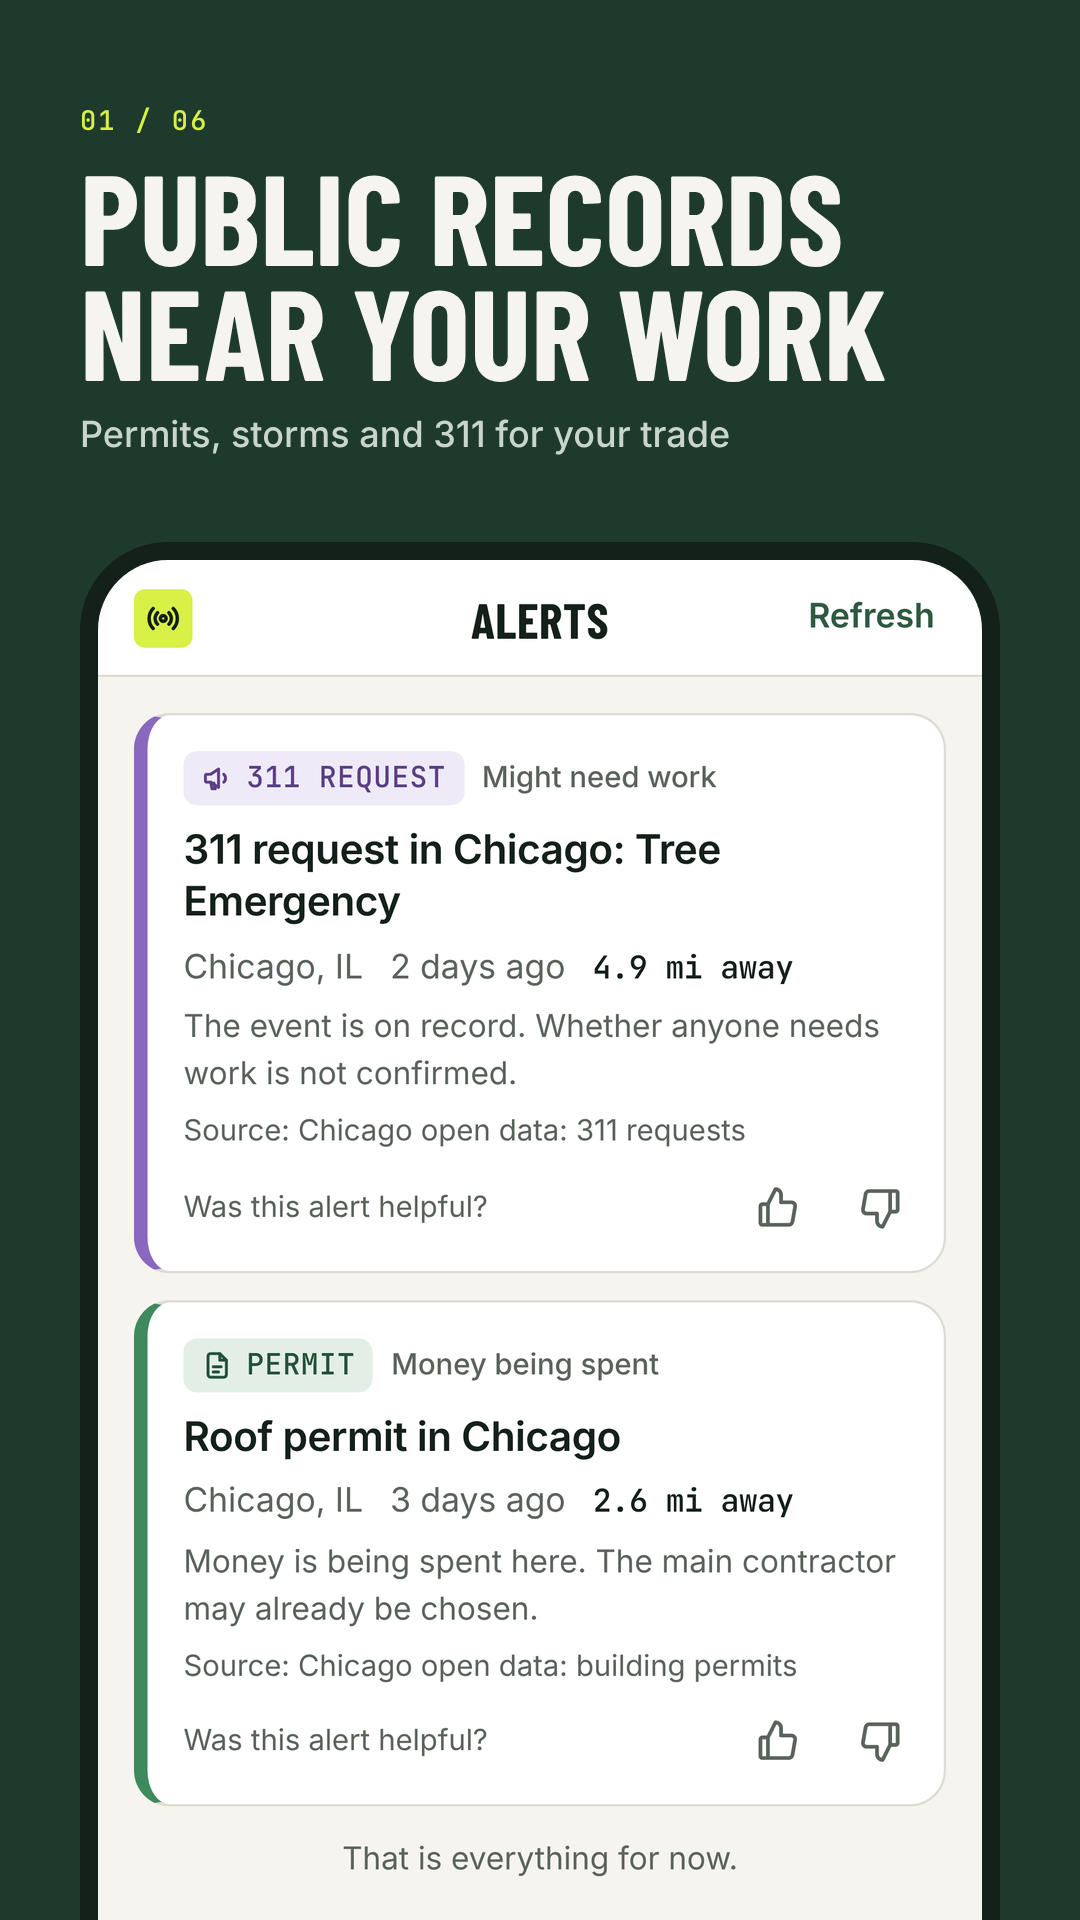
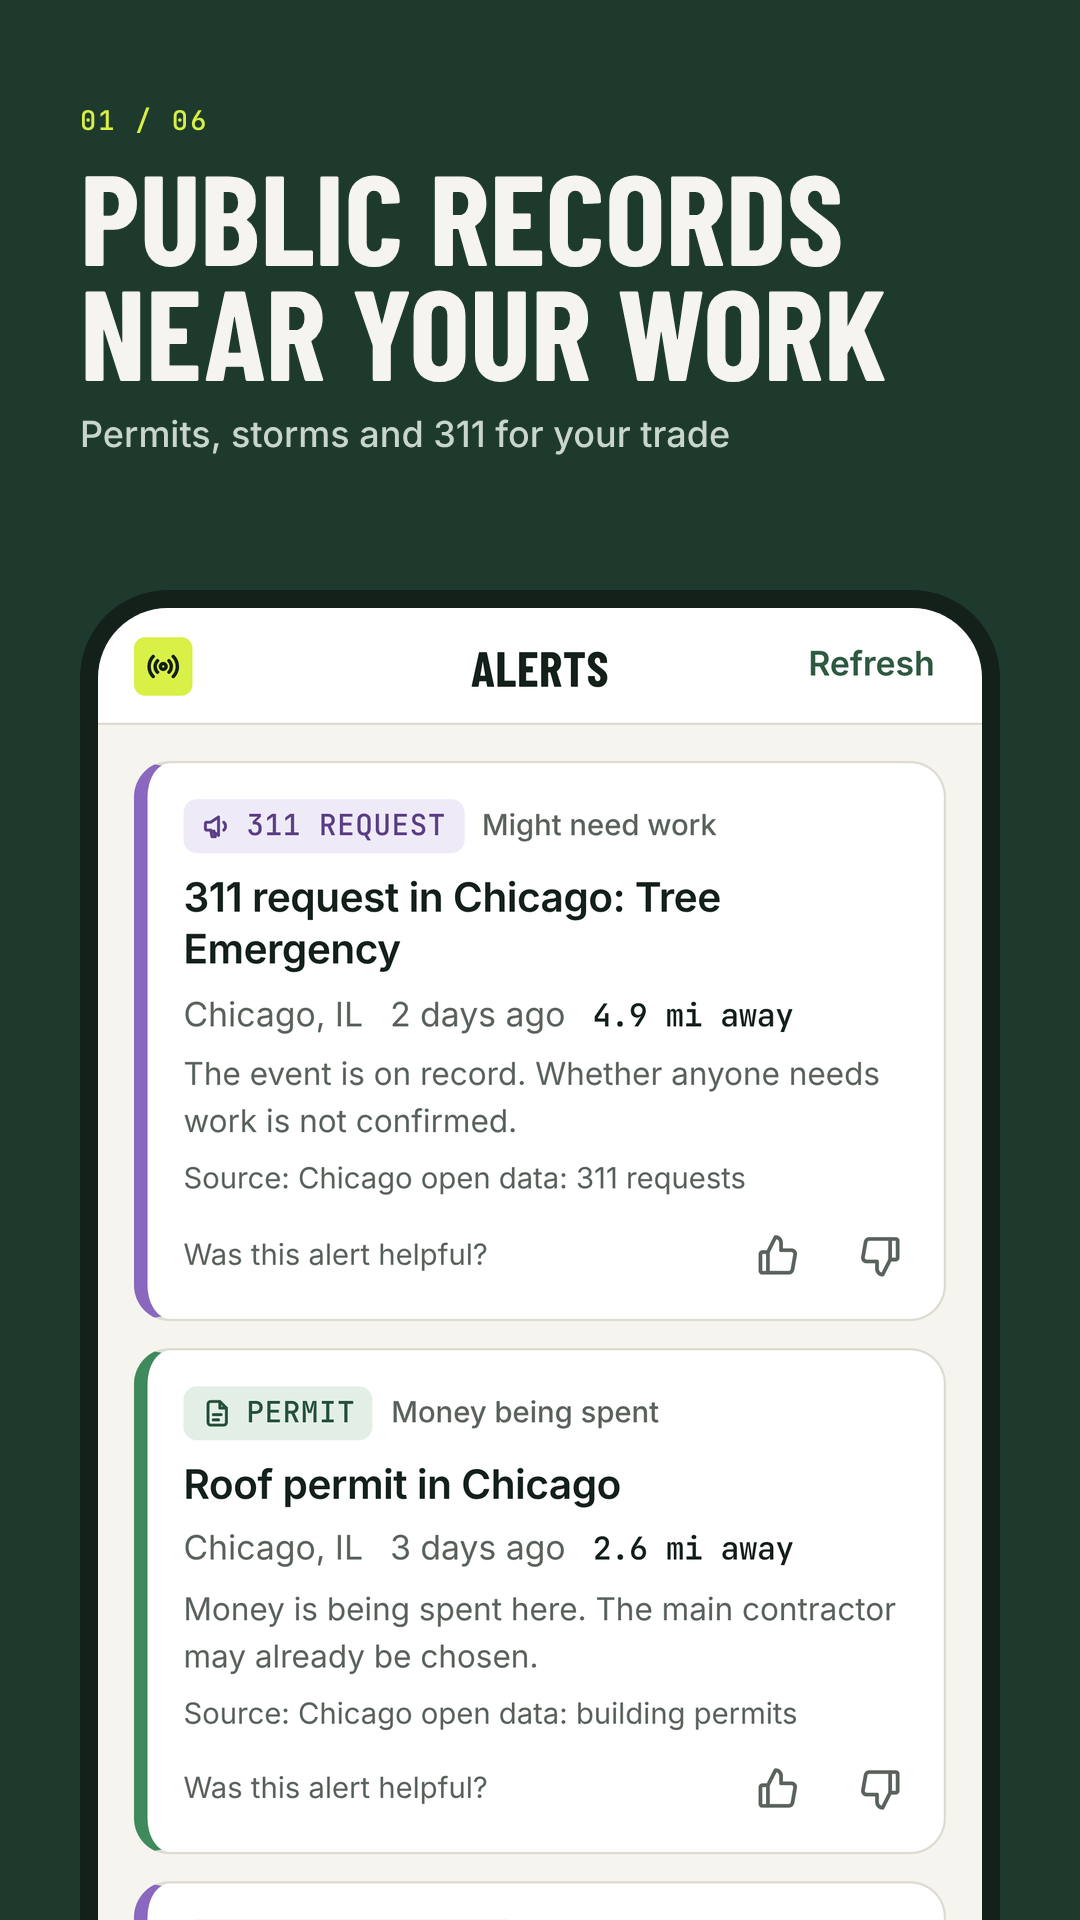
Store shots r10 fix wave 2: consistent account email, full feed on shot 1, Android trade picker ends on a whole row, ending rules
The capture member has the sample address member@example.com, so Settings never shows Not shared with the digest on. Shot 1 shows
three real records and never the end-of-feed line. The scroll solver refuses a heading as the last line in view and prefers room
under the top bar; Android hero top 590. The checker fails on Not shared with the digest on, a heading as the last line, and the
end-of-feed line on any hero.

Claude-Session: https://claude.ai/code/session_01WNZhjWuYUDysbNSQvyEAA2

diff --git a/mobile/store/make-screenshots.py b/mobile/store/make-screenshots.py
@@ -101,12 +101,14 @@ G = {
     "ios": dict(W=1320, H=2868, M=110, eyebrow_top=176, eyebrow_px=34, head_gap=30, head_px=156, head_lh=0.9, sub_gap=34, sub_px=46,
                 hero_top=794, bezel=26, frame_r=120, phone_vw=393),
     "android": dict(W=1080, H=1920, M=80, eyebrow_top=104, eyebrow_px=27, head_gap=22, head_px=128, head_lh=0.9, sub_gap=24, sub_px=36,
-                    hero_top=542, bezel=18, frame_r=88, phone_vw=393),
+                    hero_top=590, bezel=18, frame_r=88, phone_vw=393),
 }
 # tuning knobs for probing the grid (the defaults above are the shipped values)
 for _p in G:
     if os.environ.get(f"SHOTS_{_p.upper()}_TOP"):
         G[_p]["hero_top"] = int(os.environ[f"SHOTS_{_p.upper()}_TOP"])
+    if os.environ.get(f"SHOTS_{_p.upper()}_VW"):
+        G[_p]["phone_vw"] = int(os.environ[f"SHOTS_{_p.upper()}_VW"])
 PLATFORMS = tuple(os.environ.get("SHOTS_PLATFORMS", "ios,android").split(","))
 for g in G.values():
     g["box_w"] = g["W"] - 2 * g["M"]                     # hero box = the text column
@@ -141,12 +143,14 @@ SCREEN_LINES = """() => { const out = []; const sc = document.querySelector('.sc
   while (walk.nextNode()) { const n = walk.currentNode; if (!n.textContent.trim() || n.parentElement.closest('.ptr:not(.show)')) continue;
     const r = document.createRange(); r.selectNodeContents(n);
     const block = n.parentElement.closest('p, li, h1, h2, h3, dd, dt, label, button, a') || n.parentElement; k++;
-    for (const b of r.getClientRects()) out.push([b.top, b.bottom, n.textContent.trim().slice(0, 50), !!(sc && sc.contains(n)), block.dataset.k || (block.dataset.k = 'b' + k)]); }
+    // a heading whose items follow it: a trade group label in a form, a Settings section label
+    const head = !!n.parentElement.closest('form p.small.muted, .section-label');
+    for (const b of r.getClientRects()) out.push([b.top, b.bottom, n.textContent.trim().slice(0, 50), !!(sc && sc.contains(n)), block.dataset.k || (block.dataset.k = 'b' + k), head]); }
   for (const e of document.querySelectorAll('.app svg, .app .btn, .app .chip, .app input, .app select')) { const b = e.getBoundingClientRect();
-    if (b.height) out.push([b.top, b.bottom, '<' + e.tagName + '>', !!(sc && sc.contains(e)), 'e' + (k++)]); }
+    if (b.height) out.push([b.top, b.bottom, '<' + e.tagName + '>', !!(sc && sc.contains(e)), 'e' + (k++), false]); }
   // containers: never cut at the top of the scroller (they may run off the canvas edge, like the last feed card)
   for (const e of document.querySelectorAll('.app .card, .app .plan, .app .segmented, .app .notice, .app .settings-list, .app button:not(.btn):not(.chip)')) { const b = e.getBoundingClientRect();
-    if (b.height) out.push([b.top, b.bottom, '<BOX>', !!(sc && sc.contains(e)), 'x' + (k++)]); }
+    if (b.height) out.push([b.top, b.bottom, '<BOX>', !!(sc && sc.contains(e)), 'x' + (k++), false]); }
   return out; }"""
 
 # Smallest computed font size of any visible text node above `limit` (CSS px).
@@ -240,6 +244,15 @@ def records_for(feed, shown):
 
 # ---------------------------------------------------------------- heroes ------------------------------------------------------------
 
+def first_row(lines, off, st):
+    """The first whole line of text in the scroller, its text nodes joined in DOM order."""
+    rows = [(l0 - off, lab) for l0, l1, lab, ins, *_ in lines if ins and not lab.startswith('<') and l0 - off >= st - 0.5]
+    if not rows:
+        return ""
+    top = min(r[0] for r in rows)
+    return " ".join(lab for y, lab in rows if y - top < 1).replace(" .", ".")
+
+
 def phone_hero(browser, plat, name, me, feed, route=None, ready=".app", prep=None, from_end=False, anchor=None, first_text=None):
     """The top of one real viewport, exactly as tall as the frame shows. The viewport is taller than what shows (the tab bar stays
     below the canvas); if a line of text would be cut by the canvas edge, the screen's own scroller is moved down by the fewest CSS px
@@ -265,7 +278,7 @@ def phone_hero(browser, plat, name, me, feed, route=None, ready=".app", prep=Non
 
     def ok(off, need):
         hidden, shown = set(), set()
-        for l0, l1, label, ins, blk in lines0:
+        for l0, l1, label, ins, blk, *_ in lines0:
             if ins:
                 l0, l1 = l0 - off, l1 - off
                 if l0 < st - 0.5 and l1 > st + 0.5:
@@ -276,25 +289,36 @@ def phone_hero(browser, plat, name, me, feed, route=None, ready=".app", prep=Non
         if hidden & shown:  # a paragraph is either all under the top bar or all in view, never cut in two
             return False
         if first_text:  # the named line must be the first thing in the scroller
-            first = min(((l0 - off, lab) for l0, l1, lab, ins, blk in lines0 if ins and lab != '<BOX>' and l0 - off >= st - 0.5), default=(0, None))[1]
-            if first != first_text:
+            if not first_row(lines0, off, st).startswith(tuple(first_text) if isinstance(first_text, (list, tuple)) else first_text):
                 return False
         above, below = set(), set()
-        for l0, l1, label, ins, blk in lines0:
+        for l0, l1, label, ins, blk, *_ in lines0:
             if label == '<BOX>':
                 continue
             if ins:
                 l0, l1 = l0 - off, l1 - off
             (above if l1 <= vis else below).add(blk)
-        return not (above & below)  # nor at the canvas edge: the last paragraph in view is whole
+        if above & below:  # nor at the canvas edge: the last paragraph in view is whole
+            return False
+        # the last text line in view is never a heading whose items fall under the edge
+        last = max(((l1 - (off if ins else 0), hd) for l0, l1, label, ins, blk, hd in lines0 if label not in ('<BOX>',) and not label.startswith('<')
+                    and l1 - (off if ins else 0) <= vis and l0 - (off if ins else 0) >= st - 0.5), default=(0, False))
+        return not last[1]
 
-    # fewest px from where the screen opens (or, from_end, from its end); a 6 px clearance is worth up to 60 px more scrolling
+    # fewest px from where the screen opens (or, from_end, from its end, or from the anchor)
     if anchor:  # a named element at the top of the scroller, then up to 60 px less scroll (never more: no orphaned rows)
         a0 = int(round(page.evaluate(anchor) - st))
         order = [o for o in range(a0 + 6, a0 - 61, -1) if 0 <= o <= max_off]
     else:
         order = list(range(int(max_off), -1, -1)) if from_end else list(range(0, int(max_off) + 1))
-    cands = [(i + (0 if ok(o, 6) else 60), o) for i, o in enumerate(order) if ok(o, 2)]
+    def top_gap(o):  # room between the top bar and the first thing in the scroller: a line, a card or a control (CSS px)
+        ys = [l0 - o for l0, l1, lab, ins, *_ in lines0 if ins and l0 - o >= st - 0.5 and l1 - o > st]
+        return min(ys) - st if ys else 99
+    # 6 px clear at the edge is worth up to 60 px more scrolling; anything jammed under the top bar (< 8 px) costs 100
+    # and each px of room up to 8 is worth 3 px of scrolling
+    cands = [(i + (0 if ok(o, 6) else 60) + (0 if top_gap(o) >= 8 else 100) - 3 * min(max(top_gap(o), 0), 8), o) for i, o in enumerate(order) if ok(o, 2)]
+    if os.environ.get("SHOTS_DEBUG") == name:
+        print("debug", plat, name, "vis", round(vis, 1), "st", st, [(o, round(top_gap(o), 1), first_row(lines0, o, st)[:24], ok(o, 6)) for o in range(0, int(max_off) + 1) if ok(o, 2)][:80])
     off = min(cands)[1] if cands else None
     if off is None:
         raise RuntimeError(f"{plat}/{name}: no scroll position keeps the canvas edge between two lines")
@@ -304,8 +328,10 @@ def phone_hero(browser, plat, name, me, feed, route=None, ready=".app", prep=Non
     scrolled = page.evaluate("() => { const s = document.querySelector('.scroll'); return s ? s.scrollTop : 0; }")
     assert abs(scrolled - off) < 0.5, (scrolled, off)
     after = page.evaluate(SCREEN_LINES)
-    split_at_edge = sorted({b for l0, l1, lab, ins, b in after if lab != '<BOX>' and l1 <= vis} & {b for l0, l1, lab, ins, b in after if lab != '<BOX>' and l0 >= vis})
-    first_in_scroll = next((lab for l0, l1, lab, ins, b in sorted(after) if ins and lab != '<BOX>' and l0 >= st - 0.5), None)
+    split_at_edge = sorted({b for l0, l1, lab, ins, b, *_ in after if lab != '<BOX>' and l1 <= vis} & {b for l0, l1, lab, ins, b, *_ in after if lab != '<BOX>' and l0 >= vis})
+    vis_lines = [(l1, lab, hd) for l0, l1, lab, ins, b, hd in after if not lab.startswith('<') and l1 <= vis and l0 >= (st - 0.5 if ins else -1)]
+    last_line = max(vis_lines, default=(0, None, False))
+    first_in_scroll = first_row(after, 0, st)
     edge_clear = min(min(abs(vis - l0), abs(vis - l1)) for l0, l1, label, *_ in page.evaluate(SCREEN_LINES) if l1 > 0 and label != '<BOX>')
     page.wait_for_timeout(200)
     shown = page.evaluate(VISIBLE_ALERTS, vis)
@@ -326,7 +352,7 @@ def phone_hero(browser, plat, name, me, feed, route=None, ready=".app", prep=Non
     p = save(im, f"{plat}-{name}-screen.png")
     return dict(kind="phone", path=p, size=(g["screen_w"], sh), scale=s, vw=g["phone_vw"], vh=vh, visible_css=round(vis, 1), scrolled=scrolled,
                 shown=shown, screen_text=text, min_font_px=round(min_font * s, 1), edge_clear_css=round(edge_clear, 1), form=form, split_at_edge=split_at_edge,
-                first_in_scroll=first_in_scroll, switches=switches)
+                first_in_scroll=first_in_scroll, top_gap_css=round(top_gap(off), 1), switches=switches, last_line=last_line[1], last_line_is_heading=last_line[2])
 
 
 def pick_monthly(page):
@@ -337,8 +363,10 @@ def pick_monthly(page):
 def hero_for(browser, plat, shot):
     n = shot["name"]
     if n == "01-records":
-        h = phone_hero(browser, plat, n, "paid", "01-records", None, ".alert-card")
-        h["feed"] = "01-records"
+        # three records, so the feed fills the screen and never ends on the app's "That is everything for now."
+        key = "01-records"
+        h = phone_hero(browser, plat, n, "paid", key, None, ".alert-card", first_text=("311 request",))  # the newest card leads, whole
+        h["feed"] = key
     elif n == "02-storms":
         h = phone_hero(browser, plat, n, "paid", "02-storms", {"name": "alert", "signalId": 24614}, "article.card .alert-title")
         h["feed"] = "02-storms"
@@ -347,13 +375,17 @@ def hero_for(browser, plat, shot):
         # Android shows less of the screen: Tree service (in the next group) would fall under the edge, so the Android member is a
         # roofer who also does HVAC (fixtures scenario 03-radius-android); both ticked chips are in the first group
         key = "03-radius" if plat == "ios" else "03-radius-android"
-        h = phone_hero(browser, plat, n, "paid", key, {"name": "profile"}, "#trades-label",
-                       anchor="() => [...document.querySelectorAll('form p.small.muted')].find(e => e.textContent.trim() === 'Home and property').getBoundingClientRect().top - 8",
-                       first_text="Home and property")
+        if plat == "ios":
+            anchor = "() => [...document.querySelectorAll('form p.small.muted')].find(e => e.textContent.trim() === 'Home and property').getBoundingClientRect().top - 8"
+            first = ("Home and property",)
+        else:  # Android shows less: start at the trades heading, its hint or the first group, whichever lets the edge fall after a whole row
+            anchor = "() => [...document.querySelectorAll('form p.small.muted')].find(e => e.textContent.trim() === 'Home and property').getBoundingClientRect().top - 8"
+            first = ("Home and property", "Pick up to", "Your trades")
+        h = phone_hero(browser, plat, n, "paid", key, {"name": "profile"}, "#trades-label", anchor=anchor, first_text=first)
         h["feed"] = None; h["profile_key"] = key
         prof = DATA["profiles"][key]
         labels = {t["id"]: t["label"] for t in DATA["config"]["trades"]}
-        assert h["first_in_scroll"] == "Home and property", h["first_in_scroll"]
+        assert h["first_in_scroll"].startswith(first), h["first_in_scroll"]
         assert h["form"]["pickedVisible"] == [labels[x] for x in prof["trades"]], (h["form"], prof)
     elif n == "04-source":
         h = phone_hero(browser, plat, n, "paid", "04-source", {"name": "alert", "signalId": 33435}, "article.card .alert-title")
@@ -373,6 +405,7 @@ def hero_for(browser, plat, shot):
         h["feed"] = None
     else:
         raise KeyError(n)
+    assert "That is everything for now." not in h["screen_text"], (plat, n, "the hero ends on the end-of-feed line")
     h["records"] = records_for(h["feed"], h["shown"]) if h["feed"] else []
     if n in ("02-storms", "04-source"):
         assert len(h["records"]) == 1, h["records"]

diff --git a/mobile/store/check-screenshots.py b/mobile/store/check-screenshots.py
@@ -257,6 +257,15 @@ for plat in PLATS:
         h = M[f"{plat}/{n}"]["hero"]
         print(f"   {plat}/{n}: blocks split by the bottom edge {h['split_at_edge']}; first line '{h['first_in_scroll']}' {check(not h['split_at_edge'], f'split paragraph {plat}/{n}')}")
 
+print("\n   Endings: the last line in view is never a group or section heading with its items under the edge, and no hero shows the")
+print("   feed's end-of-list line ('That is everything for now.')")
+for plat in PLATS:
+    for n in names[plat]:
+        h = M[f"{plat}/{n}"]["hero"]
+        end = "That is everything for now." in h["screen_text"]
+        ok = not h["last_line_is_heading"] and not end
+        print(f"   {plat}/{n}: last line '{h['last_line']}' (heading: {h['last_line_is_heading']}); end-of-feed line: {end} {check(ok, f'ending {plat}/{n}')}")
+
 print("\n   App text size on the canvas (smallest visible text, CSS size x scale): iOS >= 34 px, Android >= 28 px")
 for plat in PLATS:
     for n in names[plat]:
@@ -304,7 +313,7 @@ for plat in PLATS:
             f = h["form"]; prof = DATA["profiles"][h["profile_key"]]
             labels = {x["id"]: x["label"] for x in DATA["config"]["trades"]}
             ok = (f and f["zip"] == prof["zip"] and int(f["radius"]) == prof["radiusMi"] and f["pickedVisible"] == [labels[x] for x in prof["trades"]]
-                  and h["first_in_scroll"] == "Home and property")
+                  and h["first_in_scroll"].startswith(("Home and property",) if plat == "ios" else ("Home and property", "Pick up to", "Your trades")))
             print(f"   {plat}/{n}: first line in the scroller '{h['first_in_scroll']}'; ticked trades in view {f['pickedVisible']} "
                   f"(member {h['profile_key']}: {prof['zip']} r{prof['radiusMi']} {prof['trades']}; the form holds ZIP {f['zip']}, {f['radius']} mi) "
                   f"{check(ok, f'trade picker {plat}/{n}')}")
@@ -315,6 +324,10 @@ for plat in PLATS:
             sw = {x["label"]: x["on"] for x in h["switches"]}
             ok = sw == {"Push notifications": True, "Email digest": True} and not any(t in ("Sign out", "Delete account") for t in h["screen_text"])
             print(f"   {plat}/{n}: Settings switches in view {sw}; no Sign out / Delete account on screen {check(ok, f'alert settings {plat}/{n}')}")
+            # the digest needs a verified address: with it on, the Email row must show one, and a plainly sample one
+            emails = [t for t in h["screen_text"] if "@" in t]
+            ok = not (sw.get("Email digest") and "Not shared" in h["screen_text"]) and emails and all(e.endswith("@example.com") for e in emails)
+            print(f"   {plat}/{n}: Email row shows {emails or 'no address'}; 'Not shared' on screen: {'Not shared' in h['screen_text']} {check(ok, f'account email {plat}/{n}')}")
         if n.startswith("06"):
             body = " ".join(h["screen_text"])
             drawn = " ".join(t["head"]) + " " + t["sub"]
